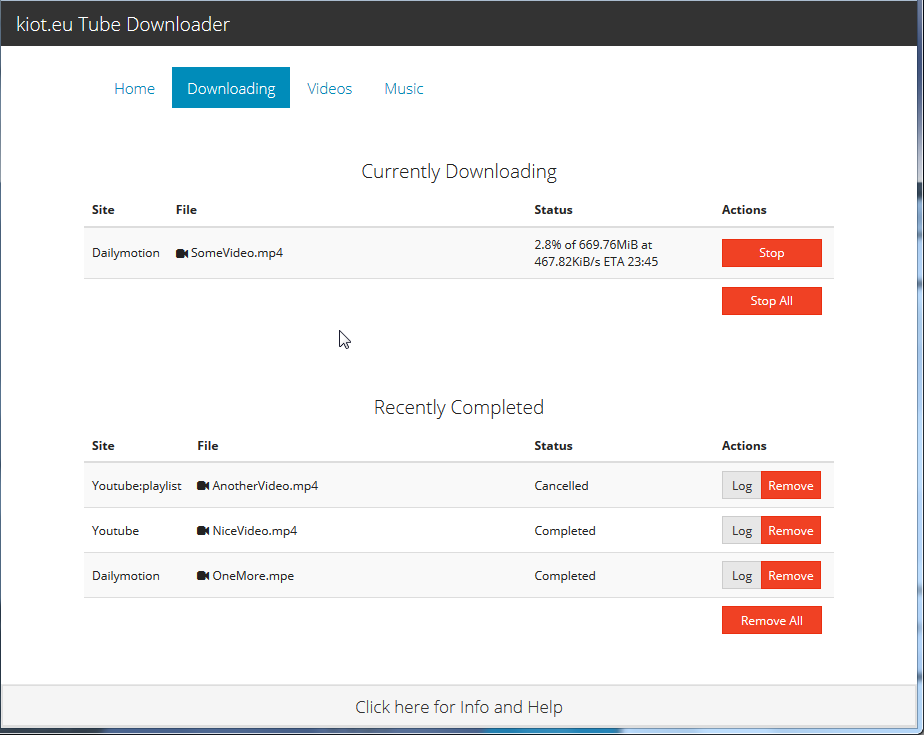
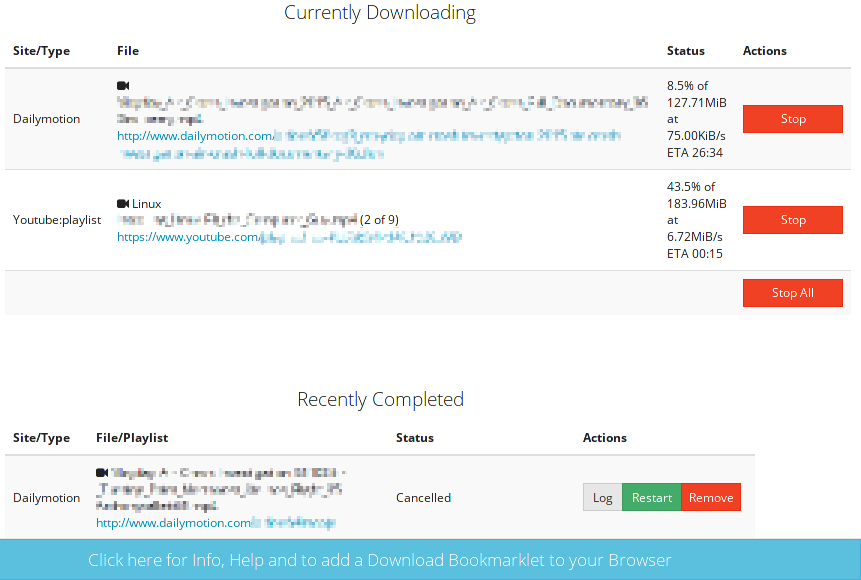
Update Readme, Update screenshots, Update help panel

diff --git a/views/footer.php b/views/footer.php
@@ -46,7 +46,7 @@
               <b>How can I download the video/audio to my computer?</b>
             </td>
             <td>
-              Go to <a href="#vidlist" onclick="$('#vid_link').click()" data-toggle="tab" aria-expanded="false">List of videos</a> or <a href="#songlist" onclick="$('#music_link').click()" data-toggle="tab" aria-expanded="false">List of songs</a> >> choose one >> right click on the link >> "Save target as ..." or go to the share \\zz9\Download in your file manager.
+              Go to <a href="#vidlist" onclick="$('#vid_link').click()" data-toggle="tab" aria-expanded="false">List of videos</a> or <a href="#songlist" onclick="$('#music_link').click()" data-toggle="tab" aria-expanded="false">List of songs</a> >> choose one >> right click on the link >> "Save target as ..."
             </td>
           </tr>
           <tr>

diff --git a/README.md b/README.md
@@ -1,5 +1,8 @@
 # Youtube-dl WebUI
+## Screenshots
 ![Main](img/main.png)
+![Help](img/help.png)
+![Bookmarklet](img/bookmarklet.png)
 ![Downloads](img/downloads.png)
 
 ## Description
